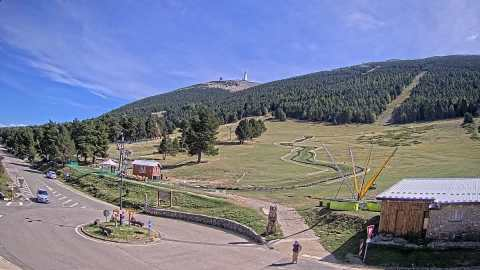
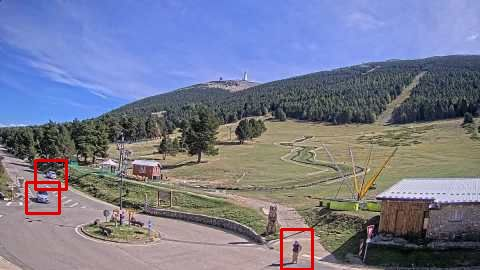
Marque la voiture et le piéton de 14 h 33 d'un rectangle rouge.
Le trait entoure sans couvrir. Un bus n'est nommé que s'il correspond à une course.

Changed region(s): [[0.0312, 0.563, 0.1562, 0.8], [0.5625, 0.8296, 0.6562, 1.0]]

diff --git a/site/app.js b/site/app.js
@@ -142,6 +142,7 @@ const COPY = {
 
 const LABELS = {
   "Voiture": "Car",
+  "Voiture et piéton": "Car and pedestrian",
   "Camion": "Truck",
   "Véhicule": "Vehicle",
   "Camping-car": "Camper van",

diff --git a/watcher/naming.py b/watcher/naming.py
@@ -205,39 +205,35 @@ def decide(obs: Observation) -> Decision:
         person = _best(obs.detections, {"person"})
         if obs.travel < obs.min_travel and not (person is not None and person.conf >= 0.4):
             return _motion(obs, "static", "Presque immobile", "Le mouvement est trop court pour une voiture ou un bus.")
-        if bus is not None and bus.conf >= conf["bus"]:
-            if len(obs.trips) == 1:
-                trip = obs.trips[0]
-                return _stamp(
-                    Decision(
-                        "publish",
-                        "bus",
-                        f"Bus {trip.route}",
-                        reason="schedule",
-                        detail={
-                            "route": trip.route,
-                            "headsign": trip.headsign,
-                            "stop": trip.stop_name,
-                            "scheduled": trip.scheduled,
-                            "source": trip.source,
-                        },
-                        confidence=bus.conf,
-                    ),
-                    obs,
-                )
-            if bus.conf >= conf["bus_unnamed"]:
-                return _stamp(
-                    Decision(
-                        "publish",
-                        "bus",
-                        "Bus",
-                        reason="model_only",
-                        detail={"trips": [trip.__dict__ for trip in obs.trips]},
-                        confidence=bus.conf,
-                    ),
-                    obs,
-                )
-            return _motion(obs, "bus_uncertain", "Véhicule incertain", "La forme rappelle un bus, sans assez de certitude ni une seule course à l'horaire.")
+        if (
+            vehicle is not None
+            and person is not None
+            and vehicle.conf >= conf["car"]
+            and person.conf >= 0.4
+        ):
+            return _stamp(
+                Decision("publish", "vehicle", "Voiture et piéton", reason="car_and_person", confidence=min(vehicle.conf, person.conf)),
+                obs,
+            )
+        if bus is not None and bus.conf >= conf["bus"] and len(obs.trips) == 1:
+            trip = obs.trips[0]
+            return _stamp(
+                Decision(
+                    "publish",
+                    "bus",
+                    f"Bus {trip.route}",
+                    reason="schedule",
+                    detail={
+                        "route": trip.route,
+                        "headsign": trip.headsign,
+                        "stop": trip.stop_name,
+                        "scheduled": trip.scheduled,
+                        "source": trip.source,
+                    },
+                    confidence=bus.conf,
+                ),
+                obs,
+            )
         if vehicle is not None and vehicle.conf >= conf["car"]:
             return _stamp(Decision("publish", "vehicle", "Véhicule", reason=vehicle.cls, confidence=vehicle.conf), obs)
         if person is not None and person.conf >= 0.4:

diff --git a/watcher/detect.py b/watcher/detect.py
@@ -44,7 +44,27 @@ class YoloDetector:
         blob, _gain, _pad = _letterbox(crop, 640)
         raw = self.session.run(None, {self.input_name: blob})[0]
         boxes = _parse(raw)
-        return _nms(boxes)
+        return [Detection(name, conf) for _x0, _y0, _x1, _y1, conf, name in _nms(boxes)]
+
+    def locate(self, frame: np.ndarray) -> list[tuple[str, float, int, int, int, int]]:
+        """Class boxes in the frame's own pixels. The box is the find, not a mask."""
+        if self.session is None or frame.size == 0:
+            return []
+        blob, gain, (pad_x, pad_y) = _letterbox(frame, 640)
+        raw = self.session.run(None, {self.input_name: blob})[0]
+        height, width = frame.shape[:2]
+        found = []
+        for x0, y0, x1, y1, conf, name in _nms(_parse(raw)):
+            left = int(round((x0 - pad_x) / gain))
+            top = int(round((y0 - pad_y) / gain))
+            right = int(round((x1 - pad_x) / gain))
+            bottom = int(round((y1 - pad_y) / gain))
+            left, top = max(0, left), max(0, top)
+            right, bottom = min(width - 1, right), min(height - 1, bottom)
+            if right - left < 2 or bottom - top < 2:
+                continue
+            found.append((name, conf, left, top, right - left, bottom - top))
+        return found
 
 
 def count_persons(detections: list[Detection], min_conf: float = 0.35) -> int:
@@ -96,15 +116,16 @@ def _parse(raw: np.ndarray) -> list[tuple[float, float, float, float, float, str
     return boxes
 
 
-def _nms(boxes: list[tuple[float, float, float, float, float, str]], iou_limit: float = 0.5) -> list[Detection]:
+def _nms(boxes: list[tuple[float, float, float, float, float, str]], iou_limit: float = 0.5):
     boxes = sorted(boxes, key=lambda item: item[4], reverse=True)
-    kept: list[Detection] = []
+    kept = []
     used: list[tuple[float, float, float, float]] = []
-    for x0, y0, x1, y1, conf, name in boxes:
+    for item in boxes:
+        x0, y0, x1, y1, _conf, _name = item
         if any(_iou((x0, y0, x1, y1), previous) > iou_limit for previous in used):
             continue
         used.append((x0, y0, x1, y1))
-        kept.append(Detection(name, conf))
+        kept.append(item)
     return kept
 
 

diff --git a/tests/test_watch.py b/tests/test_watch.py
@@ -123,14 +123,21 @@ class NamingTests(unittest.TestCase):
         self.assertEqual(decision.label, "Bus Navette")
         self.assertEqual(decision.detail["scheduled"], "10:00:00")
 
+    def test_a_car_beside_a_person_is_named_as_both(self):
+        decision = decide(
+            Observation(zone="road", travel=0.08, detections=[Detection("car", 0.7), Detection("person", 0.6)])
+        )
+        self.assertEqual(decision.label, "Voiture et piéton")
+        self.assertEqual(decision.type, "vehicle")
+
     def test_bus_with_two_trips_is_not_given_a_line(self):
         trips = [
             Trip("A", "Un", "Stop", "10:00:00", "zou"),
             Trip("B", "Deux", "Stop", "10:05:00", "zou"),
         ]
         decision = decide(Observation(zone="road", travel=0.05, detections=[Detection("bus", 0.8)], trips=trips))
-        self.assertEqual(decision.label, "Bus")
-        self.assertEqual(decision.reason, "model_only")
+        self.assertNotEqual(decision.type, "bus")
+        self.assertNotEqual(decision.label, "Bus")
 
     def test_crowd_needs_enough_people(self):
         self.assertFalse(decide(Observation(kind="crowd", person_count=2)).publish)
@@ -289,10 +296,11 @@ class ThumbTests(unittest.TestCase):
         image[:] = (30, 70, 30)
         ok, encoded = cv2.imencode(".jpg", image)
         self.assertTrue(ok)
-        marked = cv2.imdecode(np.frombuffer(small_jpeg(encoded.tobytes(), box=[0.25, 0.2, 0.4, 0.3]), dtype=np.uint8), cv2.IMREAD_COLOR)
-        y = int(0.2 * marked.shape[0])
-        band = marked[max(0, y - 2): y + 3, int(0.25 * marked.shape[1]): int(0.65 * marked.shape[1])]
-        self.assertGreater(int(band.max()), 200)
+        marked = cv2.imdecode(np.frombuffer(small_jpeg(encoded.tobytes(), box=[0.4, 0.35, 0.1, 0.12]), dtype=np.uint8), cv2.IMREAD_COLOR)
+        height, width = marked.shape[:2]
+        subject = marked[int(0.41 * height), int(0.45 * width)]
+        self.assertLess(int(subject[2]), 80)
+        self.assertGreater(int(marked[:, :, 2].max()), 180)
 
 
 class ReviewTests(unittest.TestCase):

diff --git a/watcher/store.py b/watcher/store.py
@@ -309,13 +309,15 @@ def _outline(image: np.ndarray, box) -> None:
         h = int(round(float(box[3]) * height))
     except (TypeError, ValueError):
         return
-    x0, y0 = max(0, x), max(0, y)
-    x1 = min(width - 1, x + max(w, 1))
-    y1 = min(height - 1, y + max(h, 1))
-    if x1 - x0 < 2 or y1 - y0 < 2:
+    pad_x = max(10, int(round(w * 0.45)))
+    pad_y = max(10, int(round(h * 0.45)))
+    x0 = max(0, x - pad_x)
+    y0 = max(0, y - pad_y)
+    x1 = min(width - 1, x + max(w, 1) + pad_x)
+    y1 = min(height - 1, y + max(h, 1) + pad_y)
+    if x1 - x0 < 4 or y1 - y0 < 4:
         return
-    cv2.rectangle(image, (x0, y0), (x1, y1), (255, 255, 255), 3)
-    cv2.rectangle(image, (x0, y0), (x1, y1), (32, 110, 230), 1)
+    cv2.rectangle(image, (x0, y0), (x1, y1), (0, 0, 220), 2)
 
 
 def small_jpeg(jpeg: bytes, width: int = THUMB_WIDTH, quality: int = THUMB_QUALITY, box=None) -> bytes:
